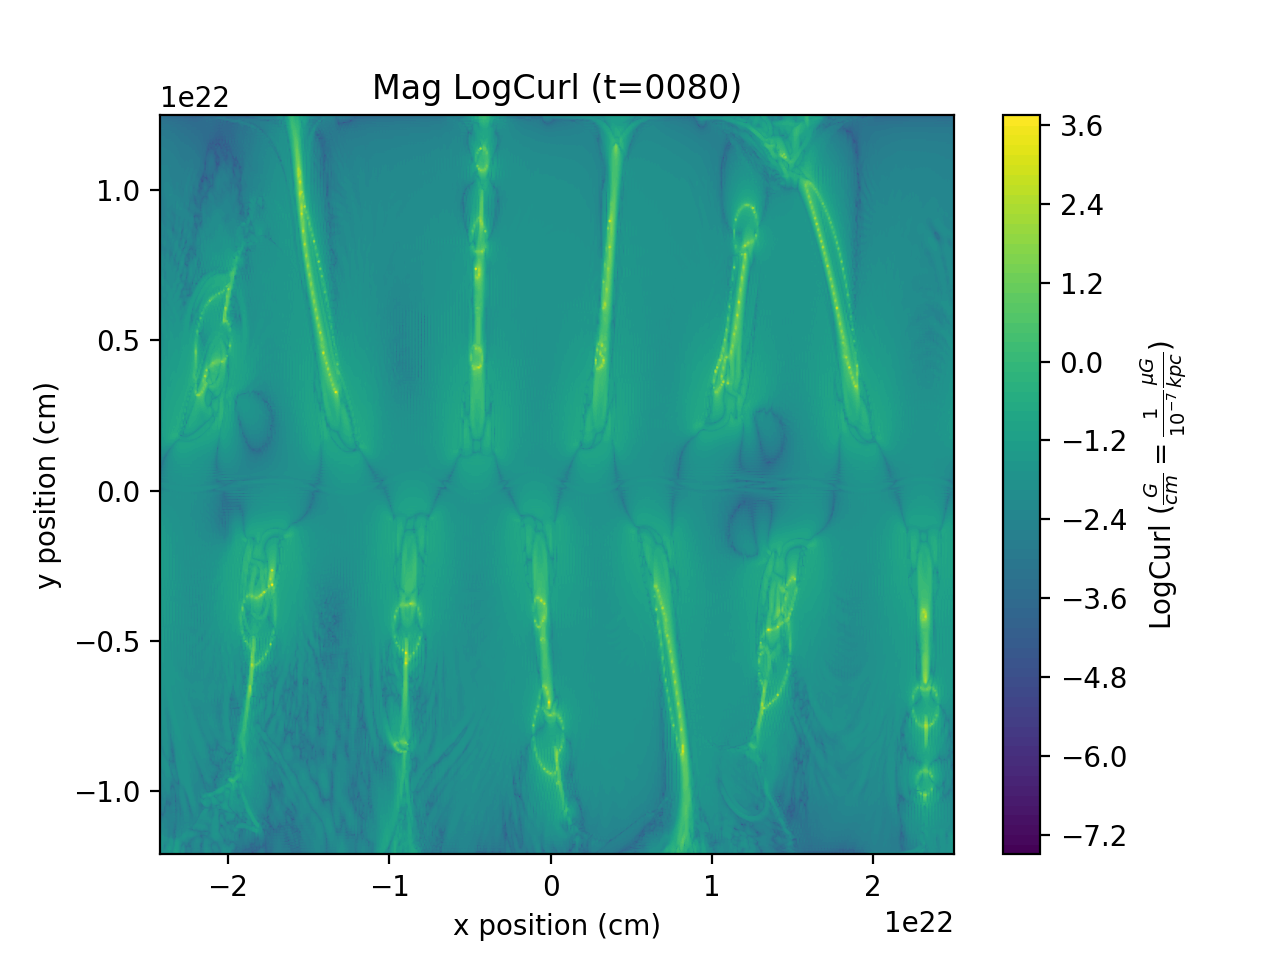
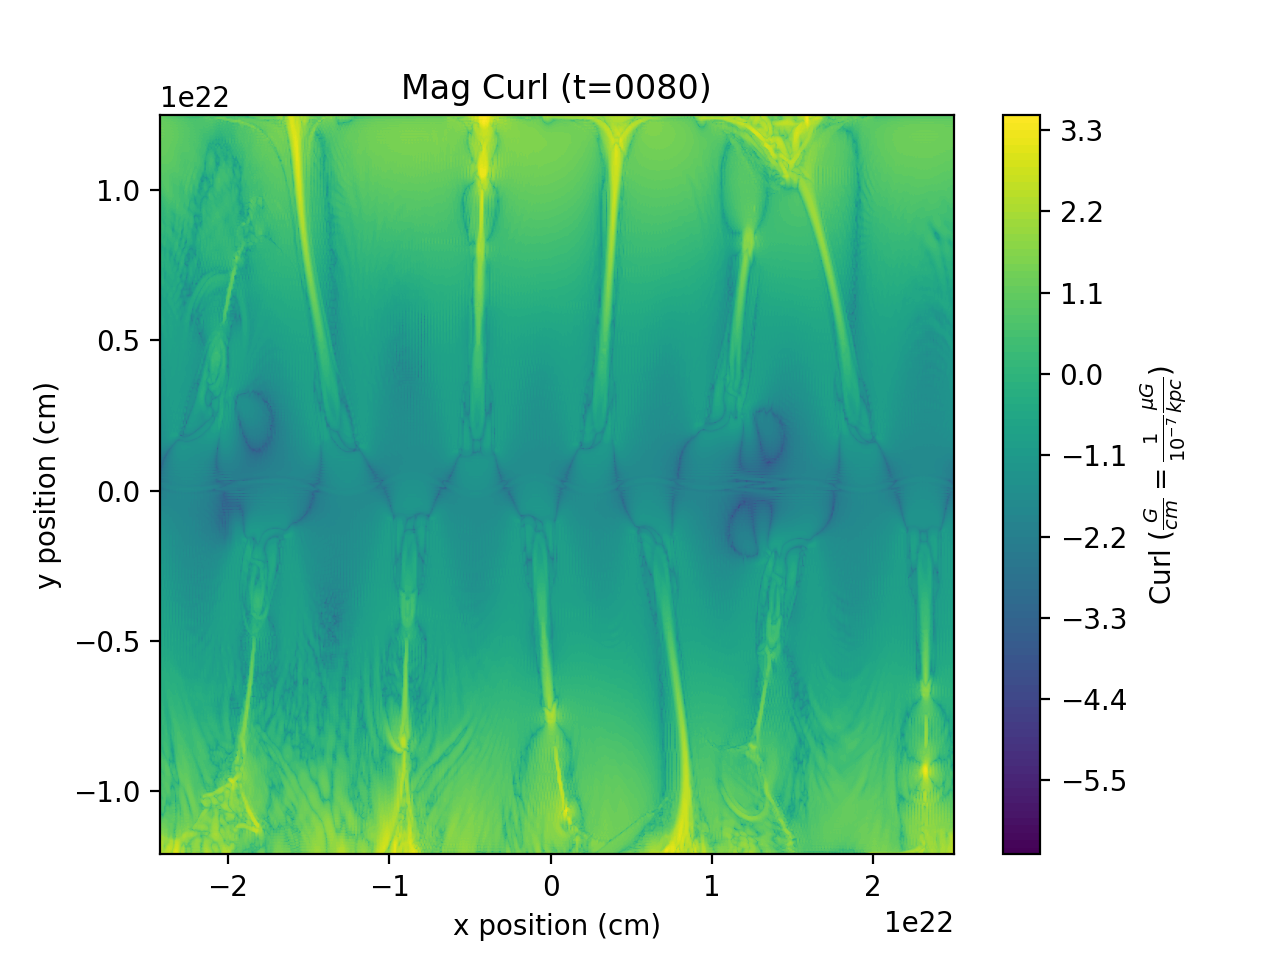
Purged/deleted/cleaned alot of code and files. FIXED div gif bugs. WORKING on zlim/clim

diff --git a/Curl_Div.py b/Curl_Div.py
@@ -73,6 +73,18 @@ def EZlabels(title, timestamp, savefile = ""):
     plt.xlabel("x position (cm)")
     plt.ylabel("y position (cm)")
     plt.savefig(pwd + "/Plots/"+savefile+timestamp+".png")
+    
+#div
+def calcDiv(X_field, Y_field):
+    PxFx = np.diff(magY, n=1, axis = 0) #shape (511, 512)
+    PyFy = np.diff(magX, n=1, axis = 1) #shape (512, 511)
+    return(PxFx[:,1:] + PyFy[1:]) #reselect to rehape
+
+#curl
+def calcCurl(X_field, Y_field):
+    PxFy = np.diff(magY, n=1, axis = 1) #shape (512, 511)
+    PyFx = np.diff(magX, n=1, axis = 0) #shape (511, 512)
+    return(PxFy[1:] - PyFx[:,1:]) #reselect to rehape
 
 #%% Plotting curl and div
 #SETUP DATA
@@ -91,15 +103,9 @@ magY = newOut['magYarray']
 magX = newOut['magXarray']
 magInit = np.sqrt(pow(magX, 2), pow(magY, 2))[1:, 1:]
 
-#div
-PxFx = np.diff(magY, n=1, axis = 0) #shape (511, 512)
-PyFy = np.diff(magX, n=1, axis = 1) #shape (512, 511)
-divInit = PxFx[:,1:] + PyFy[1:] #reselect to rehape
+divInit = calcDiv(magX, magY)
+curlInit = curl = calcCurl(magX, magY)
 
-#curl
-PxFy = np.diff(magY, n=1, axis = 1) #shape (512, 511)
-PyFx = np.diff(magX, n=1, axis = 0) #shape (511, 512)
-curlInit = PxFy[1:] - PyFx[:,1:]
 
 #%%
 timestamp = "0080"
@@ -112,15 +118,8 @@ y = newOut['posYarray']
 magY = newOut['magYarray']
 magX = newOut['magXarray']
 
-#div
-PxFx = np.diff(magY, n=1, axis = 0) #shape (511, 512)
-PyFy = np.diff(magX, n=1, axis = 1) #shape (512, 511)
-div = PxFx[:,1:] + PyFy[1:] #reselect to rehape
-
-#curl
-PxFy = np.diff(magY, n=1, axis = 1) #shape (512, 511)
-PyFx = np.diff(magX, n=1, axis = 0) #shape (511, 512)
-curl = PxFy[1:] - PyFx[:,1:]
+div = calcDiv(magX, magY)
+curl = calcCurl(magX, magY)
 
 #%% Plot (w/ linear scale)
 plt.clf()
@@ -133,9 +132,6 @@ plt.clf()
 plt.contourf(x[:1, 1:].flatten(), y[1:, :1].flatten(), curl, locator=ticker.MaxNLocator(100))
 EZlabels("Curl", timestamp)
 
-#####################################
-## LOG SCALES (Pretty much identical)
-#####################################
 #%% LOG SCALE
 plt.clf()
 div = abs(div)
@@ -154,61 +150,26 @@ plt.contourf(x[:1, 1:].flatten(), y[1:, :1].flatten(), curl, levels = lev)
 # plt.contourf(x[:1, 1:].flatten(), y[1:, :1].flatten(), div, locator=ticker.LogLocator())
 EZlabels("Div", timestamp, savefile="LOGCurl(Exp"+str(lowerexp)+")") 
 
-#%% PCM LOG/SYMLOGNORM
-plt.clf()
-n=colors.SymLogNorm(linthresh=10e-10, linscale=10e-10, vmin = np.min(curl), vmax = np.max(curl))
-pcm = plt.pcolormesh(x[:1, 1:].flatten(), y[1:, :1].flatten(), curl, norm = n)
-plt.contourf(x[:1, 1:].flatten(), y[1:, :1].flatten(), curl, levels = 100)
-plt.colorbar(pcm, label =  r"Curl ($\frac{G}{cm} = \frac{1}{10^{-7}} \frac{\mu G}{kpc}$)")
-plt.title("Mag Curl SymLogNorm"+"(t="+timestamp+")")
-plt.xlabel("x position (cm)")
-plt.ylabel("y position (cm)")
-plt.savefig(pwd + "/Plots/CurlSymLog"+timestamp+".png")
-
-#%% POWERNORM
-plt.clf()
-n=colors.PowerNorm(0.2)
-pcm = plt.pcolormesh(x[:1, 1:].flatten(), y[1:, :1].flatten(), curl, norm = n)
-plt.contourf(x[:1, 1:].flatten(), y[1:, :1].flatten(), curl, levels = 100)
-plt.colorbar(pcm, label =  r"Curl ($\frac{G}{cm} = \frac{1}{10^{-7}} \frac{\mu G}{kpc}$)")
-plt.title("Mag Curl PowerNorm $\gamma = 0.2$"+"(t="+timestamp+")")
-plt.xlabel("x position (cm)")
-plt.ylabel("y position (cm)")
-plt.savefig(pwd + "/Plots/CurlPowerNorm"+timestamp+".png")
-
-################################
-## MANY DIFFERENT NORMALIZATIONS
-################################
-
 #%% NORMALIZE BY MATH
 
 plt.clf()
-plt.contourf(x[:1, 1:].flatten(), y[1:, :1].flatten(), abs((div-divInit)/magInit), locator=ticker.LogLocator(100))
+z=abs((div-divInit)/magInit)
+plt.contourf(x[:1, 1:].flatten(), y[1:, :1].flatten(), np.log10(z), levels=100)
 EZlabels("Div", timestamp, savefile="DivSubtractDivideInitLOG")
 
 plt.clf()
-plt.contourf(x[:1, 1:].flatten(), y[1:, :1].flatten(), abs((curl-curlInit)/magInit), locator=ticker.LogLocator(100))
+z=abs((curl-curlInit)/magInit)
+plt.contourf(x[:1, 1:].flatten(), y[1:, :1].flatten(), np.log10(z), levels=100)
 EZlabels("Curl", timestamp, savefile="CurlSubtractDivideInitLOG")
 
-#%% ++ log scale
+#%% experiment with colorbar limits
 plt.clf()
-z = abs((curl-curlInit)/magInit)
-#lowerbound = max(z.min(), pow(10, -9)) #set minimum lower bound
-lev = np.logspace(np.log10(z.min()), np.log10(z.max()), num=100)
-plt.contourf(x[:1, 1:].flatten(), y[1:, :1].flatten(), np.log10(z),levels=100)#, levels = lev)
-# plt.contourf(x[:1, 1:].flatten(), y[1:, :1].flatten(), div, locator=ticker.LogLocator())
-plt.colorbar()
-
-#EZlabels("CurlLog", timestamp, savefile="CurlSubtractDivideInitLOGCurl(Exp"+str(lowerexp)+")") 
-
-
-#%%
+fig, ax = plt.subplots(1, 1)
 z=abs((curl-curlInit)/magInit)
-plt.clf()
-n=colors.LogNorm(vmin = z.min(), vmax = z.max())
-plt.contourf(x[:1, 1:].flatten(), y[1:, :1].flatten(), z, norm = n, levels = 100)
-plt.colorbar()
-
+ax.contourf(x[:1, 1:].flatten(), y[1:, :1].flatten(), np.log10(z), levels=100)
+fig.colorbar()
+ax.clim(-9, 5)
+# EZlabels("Curl", timestamp, savefile="CurlSubtractDivideInitLOG")
 
 #%% Zoom (Why? To re-draw the colorbar while plotting, NOT just matplotlib zoom.)
 #trim to length

diff --git a/Curl_Div_Gifs.py b/Curl_Div_Gifs.py
@@ -96,48 +96,6 @@ for fileName in os.listdir(filedirectory):
         PyFx = np.diff(magX, n=1, axis = 0) #shape (511, 512)
         curl = PxFy[1:] - PyFx[:,1:]
         
-        # #plot Div
-        # plt.clf()
-        # n=colors.SymLogNorm(linthresh=10e-10, linscale=10e-10, vmin = np.min(div), vmax = np.max(div))
-        # pcm = plt.pcolormesh(x[:1, 1:].flatten(), y[1:, :1].flatten(), div, norm = n)
-        # fig = plt.figure() 
-        # ax = plt.contourf(x[:1, 1:].flatten(), y[1:, :1].flatten(), div, lev=1000)
-        # plt.colorbar(pcm, label =  r"Div ($\frac{G}{cm} = \frac{1}{10^{-7}} \frac{\mu G}{kpc}$)")
-        # plt.title("Mag Divergence (t="+str(timeStamp)+")")
-        # # ax.set_zlim(-3e-7, 3e-7)
-        # plt.savefig(saveDirectory + "/Div/t="+str(timeStamp)+".png")
-        
-        # #plot curl
-        # plt.clf()
-        # n=colors.SymLogNorm(linthresh=10e-10, linscale=10e-10, vmin = np.min(curl), vmax = np.max(curl))
-        # pcm = plt.pcolormesh(x[:1, 1:].flatten(), y[1:, :1].flatten(), curl, norm = n)
-        # fig = plt.figure() 
-        # plt.contourf(x[:1, 1:].flatten(), y[1:, :1].flatten(), curl, lev=1000)
-        # plt.colorbar(pcm, label =  r"Curl ($\frac{G}{cm} = \frac{1}{10^{-7}} \frac{\mu G}{kpc}$)")
-        # plt.title("Mag Curl (t="+str(timeStamp)+")")
-        # plt.savefig(saveDirectory + "/Curl/t="+str(timeStamp)+".png")
-        
-        #OLD
-        # plt.clf()
-        # n=colors.SymLogNorm(linthresh=10e-10, linscale=10e-10, vmin = np.min(div), vmax = np.max(div))
-        # pcm = plt.pcolormesh(x[:1, 1:].flatten(), y[1:, :1].flatten(), div, norm = n)
-        # plt.contourf(x[:1, 1:].flatten(), y[1:, :1].flatten(), div, levels = 100)
-        # plt.colorbar(pcm, label =  r"Div ($\frac{G}{cm} = \frac{1}{10^{-7}} \frac{\mu G}{kpc}$)")
-        # plt.title("Mag Div"+"(t="+str(timeStamp)+")")
-        # plt.xlabel("x position (cm)")
-        # plt.ylabel("y position (cm)")
-        # plt.savefig(saveDirectory + "/div/t="+str(timeStamp)+".png")
-        
-        # plt.clf()
-        # n=colors.SymLogNorm(linthresh=10e-10, linscale=10e-10, vmin = np.min(curl), vmax = np.max(curl))
-        # pcm = plt.pcolormesh(x[:1, 1:].flatten(), y[1:, :1].flatten(), curl, norm = n)
-        # plt.contourf(x[:1, 1:].flatten(), y[1:, :1].flatten(), curl, levels = 100)
-        # plt.colorbar(pcm, label =  r"Curl ($\frac{G}{cm} = \frac{1}{10^{-7}} \frac{\mu G}{kpc}$)")
-        # plt.title("Mag Curl"+"(t="+str(timeStamp)+")")
-        # plt.xlabel("x position (cm)")
-        # plt.ylabel("y position (cm)")
-        # plt.savefig(saveDirectory + "/curl/t="+str(timeStamp)+".png")
-        
         plt.clf()
         # fig = plt.figure()
         # ax = fig.add_subplot(1, 1, 1)
@@ -156,17 +114,17 @@ for fileName in os.listdir(filedirectory):
         plt.savefig(saveDirectory + "/curl/t="+str(timeStamp)+".png")
         
         ##DIV
-        # z = abs((div-div)/magInit)
-        # #lowerbound = max(z.min(), pow(10, -9)) #set minimum lower bound
-        # lev = np.logspace(np.log10(z.min()), np.log10(z.max()), num=100)
-        # ax = plt.contourf(x[:1, 1:].flatten(), y[1:, :1].flatten(), np.log10(z),levels=100)#, levels = lev)
-        # # plt.contourf(x[:1, 1:].flatten(), y[1:, :1].flatten(), div, locator=ticker.LogLocator())
-        # plt.title("Mag Div Diff/Initial Mag Field"+"(t="+str(timeStamp)+")")
-        # plt.xlabel("x position (cm)")
-        # plt.ylabel("y position (cm)")
-        # # ax.set_zlim(-9, 5)
-        # plt.colorbar(label =  r"log(Div) ($\frac{G}{cm} = \frac{1}{10^{-7}} \frac{\mu G}{kpc}$)")
-        # plt.savefig(saveDirectory + "/div/t="+str(timeStamp)+".png")
+        z = abs((div-divInit)/magInit)
+        #lowerbound = max(z.min(), pow(10, -9)) #set minimum lower bound
+        lev = np.logspace(np.log10(z.min()), np.log10(z.max()), num=100)
+        ax = plt.contourf(x[:1, 1:].flatten(), y[1:, :1].flatten(), np.log10(z),levels=100)#, levels = lev)
+        # plt.contourf(x[:1, 1:].flatten(), y[1:, :1].flatten(), div, locator=ticker.LogLocator())
+        plt.title("Mag Div Diff/Initial Mag Field"+"(t="+str(timeStamp)+")")
+        plt.xlabel("x position (cm)")
+        plt.ylabel("y position (cm)")
+        # ax.set_zlim(-9, 5)
+        plt.colorbar(label =  r"log(Div) ($\frac{G}{cm} = \frac{1}{10^{-7}} \frac{\mu G}{kpc}$)")
+        plt.savefig(saveDirectory + "/div/t="+str(timeStamp)+".png")
 beepy.beep(4)
 print()
 print("~~~~~~~~~~~~~~~~~~~~~~~~~~~")

diff --git a/2D_CurlDetection.py b/2D_CurlDetection.py
@@ -34,13 +34,14 @@ import hdf5_parser
 
 #%%
 #div
-def div(X_field, Y_field):
+#div
+def calcDiv(X_field, Y_field):
     PxFx = np.diff(magY, n=1, axis = 0) #shape (511, 512)
     PyFy = np.diff(magX, n=1, axis = 1) #shape (512, 511)
     return(PxFx[:,1:] + PyFy[1:]) #reselect to rehape
 
 #curl
-def curl(X_field, Y_field):
+def calcCurl(X_field, Y_field):
     PxFy = np.diff(magY, n=1, axis = 1) #shape (512, 511)
     PyFx = np.diff(magX, n=1, axis = 0) #shape (511, 512)
     return(PxFy[1:] - PyFx[:,1:]) #reselect to rehape
@@ -62,8 +63,8 @@ magY = newOut['magYarray']
 magX = newOut['magXarray']
 magInit = np.sqrt(pow(magX, 2), pow(magY, 2))[1:, 1:]
 
-divInit = div(magX, magY)
-curlInit = curl(magX, magY)
+divInit = calcDiv(magX, magY)
+curlInit = calcCurl(magX, magY)
 
 #load coordinates; you only need to do this once
 x = newOut['posXarray']
@@ -78,8 +79,8 @@ magY = newOut['magYarray']
 magX = newOut['magXarray']
 magInit = np.sqrt(pow(magX, 2), pow(magY, 2))[1:, 1:]
 
-divNow = div(magX, magY)
-curlNow = curl(magX, magY)
+divNow = calcDiv(magX, magY)
+curlNow = calcCurl(magX, magY)
 
 #%% Plot it!
 # NORMALIZE BY MATH
@@ -99,14 +100,14 @@ EZlabels("LogCurl", timestamp, savefile="CurlSubtractDivideInitLOG")
 #%% Bubble detection
 
 #in 10^threshold
-threshold = 3
+threshold = 2.5
 TFselect = (z > threshold) #using this threshold
 print(True in TFselect)
 print(str(np.sum(TFselect)) + " matches")
 xbubblepos = x[1:,1:][TFselect]
 ybubblepos = y[1:,1:][TFselect]
 
-#%% Plot identified bubbles
+# Plot identified bubbles
 
 plt.close()
 plt.contourf(x[:1, 1:].flatten(), y[1:, :1].flatten(), z,levels=100)
@@ -123,3 +124,24 @@ plt.title("Mag Curl Detect, thresh="+str(threshold)+" (t="+timestamp+")")
 plt.xlabel("x position (cm)")
 plt.ylabel("y position (cm)")
 plt.savefig(pwd+"/curl_2D/t=80_thresh="+str(threshold)+".png")
+
+#%% Try it in a gif
+
+import os
+from os import path
+import time
+import beepy #sound for when the code is done running
+import moviepy
+from moviepy.editor import ImageSequenceClip
+
+for fileName in os.listdir(filedirectory):
+    if(fileName.startswith("parkerCRs")):
+        print(fileName)
+        timeStamp = fileName[len(fileName)-4: len(fileName)]
+        newOut = hdf5_parser.setup(filedirectory +"/"+ fileName, format = "cartesian")
+        x = newOut['posXarray']
+        y = newOut['posYarray']
+        magY = newOut['magYarray']
+        magX = newOut['magXarray']
+        
+        z = np.log10(abs((curlNow-curlInit)/magInit))
